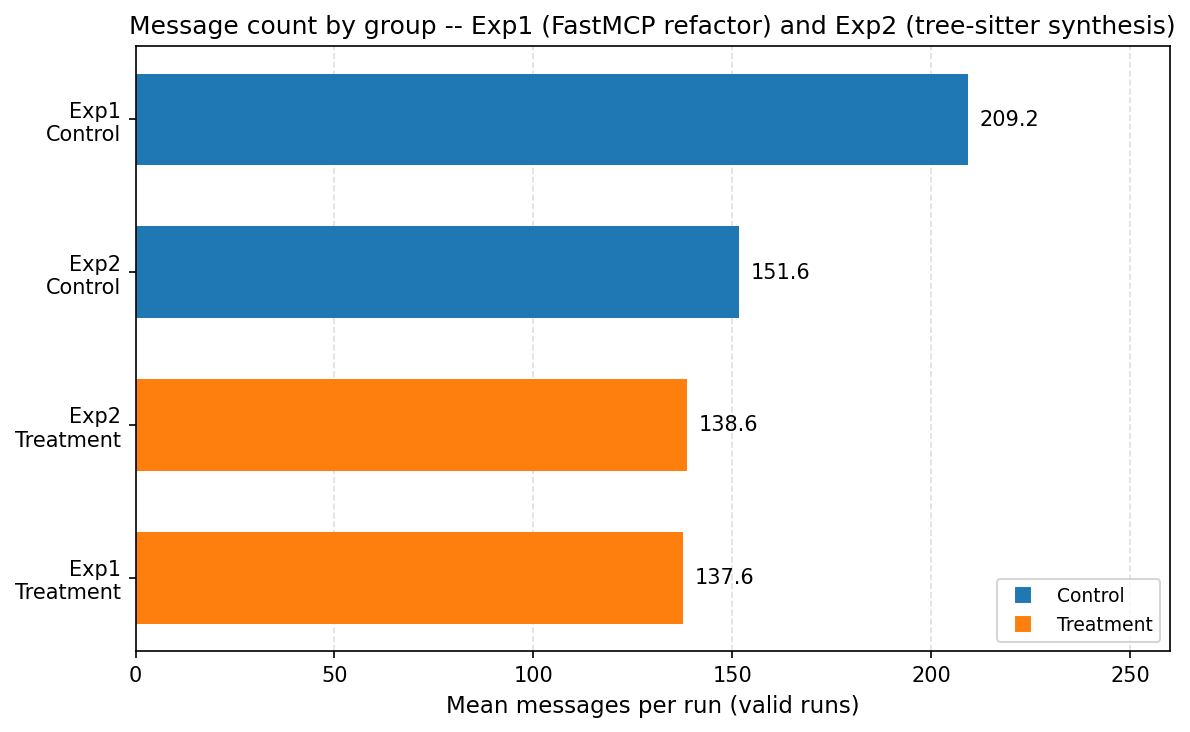
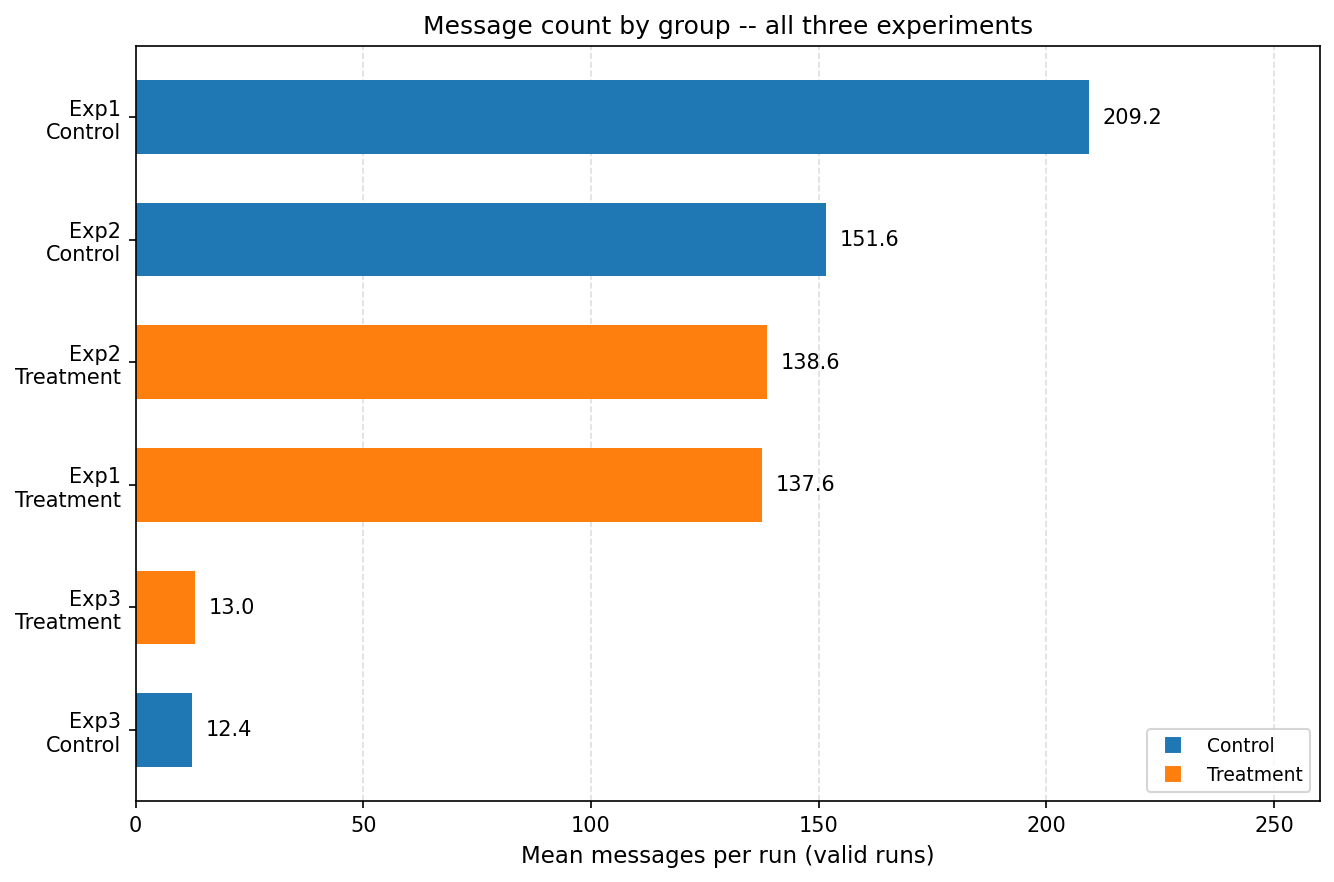
docs(figures): add Exp3 data to all three figures (#53)
- fig1: grouped bar chart with log scale; Exp3 control 41,570 / treatment 50,418 tokens
- fig2: two-panel layout; Exp3 panel with excluded criteria (C1/C5/C6) in grey
- fig3: Exp3 message bars added (control 12.4, treatment 13.0)
- README: update all three figure captions

diff --git a/figures/fig2-criterion-pass-rates.py b/figures/fig2-criterion-pass-rates.py
@@ -3,38 +3,68 @@ matplotlib.use('Agg')
 import matplotlib.pyplot as plt
 from matplotlib.lines import Line2D
 
-# Data
-criteria = ["C1", "C2", "C3", "C4", "C5", "C6"]
-rates = [1.0, 1.0, 1.0, 1.0, 0.67, 1.0]
-colors = ["#2ca02c", "#2ca02c", "#2ca02c", "#2ca02c", "#d62728", "#2ca02c"]
+# Exp1 data
+criteria_exp1 = ["C1", "C2", "C3", "C4", "C5", "C6"]
+rates_exp1 = [1.0, 1.0, 1.0, 1.0, 0.67, 1.0]
+colors_exp1 = ["#2ca02c", "#2ca02c", "#2ca02c", "#2ca02c", "#d62728", "#2ca02c"]
 
-fig, ax = plt.subplots(figsize=(8, 5))
+# Exp2 data -- complete ceiling, all 7 criteria at 100%
+criteria_exp2 = ["C1", "C2", "C3", "C4", "C5", "C6", "C7"]
+rates_exp2 = [1.0, 1.0, 1.0, 1.0, 1.0, 1.0, 1.0]
+colors_exp2 = ["#2ca02c"] * 7
 
-bars = ax.bar(range(6), rates, color=colors, width=0.6, zorder=3)
+# Exp3 data
+criteria_exp3 = ["C1\u2020", "C2", "C3", "C4", "C5\u2020", "C6\u2020", "C7"]
+rates_exp3 = [0.0, 0.10, 0.80, 0.30, 0.0, 0.0, 1.0]
+colors_exp3 = ["#aaaaaa", "#ff7f0e", "#2ca02c", "#ff7f0e", "#aaaaaa", "#aaaaaa", "#2ca02c"]
 
-# Axis labels and title
-ax.set_ylabel('Pass rate', fontsize=11)
-ax.set_title('Criterion pass rates -- FastMCP refactor (n=9 valid runs)', fontsize=12)
-ax.set_ylim(0, 1.15)
-ax.yaxis.grid(True, linestyle='--', alpha=0.4, zorder=0)
-ax.set_axisbelow(True)
-# X ticks
-ax.set_xticks(range(6))
-ax.set_xticklabels(criteria, fontsize=11)
+fig, (ax1, ax2, ax3) = plt.subplots(3, 1, figsize=(10, 13))
 
-# Value labels on bars
-for i, bar in enumerate(bars):
-    r = rates[i]
-    ax.text(bar.get_x() + bar.get_width() / 2, bar.get_height() + 0.02,
-            f"{r:.0%}", ha='center', va='bottom', fontsize=10, fontweight='bold')
+# Panel 1: Exp1
+bars1 = ax1.bar(range(6), rates_exp1, color=colors_exp1, width=0.6, zorder=3)
+ax1.set_ylabel('Pass rate', fontsize=11)
+ax1.set_title('Exp1: FastMCP refactor (n=9 valid runs)', fontsize=11)
+ax1.set_ylim(0, 1.15)
+ax1.yaxis.grid(True, linestyle='--', alpha=0.4, zorder=0)
+ax1.set_axisbelow(True)
+ax1.set_xticks(range(6))
+ax1.set_xticklabels(criteria_exp1, fontsize=10)
+for i, bar in enumerate(bars1):
+    r = rates_exp1[i]
+    ax1.text(bar.get_x() + bar.get_width() / 2, r + 0.02,
+             f"{r:.0%}", ha='center', va='bottom', fontsize=10, fontweight='bold')
 
-# Legend
-legend_elements = [
-    Line2D([0], [0], marker='s', color='w', markerfacecolor='#2ca02c', markersize=9, label='Pass (100%)'),
-    Line2D([0], [0], marker='s', color='w', markerfacecolor='#d62728', markersize=9, label='Partial')
-]
-ax.legend(handles=legend_elements, loc='upper right', fontsize=9)
+# Panel 2: Exp2
+bars2 = ax2.bar(range(7), rates_exp2, color=colors_exp2, width=0.6, zorder=3)
+ax2.set_ylabel('Pass rate', fontsize=11)
+ax2.set_title('Exp2: Tree-sitter AST scanner (n=10) -- complete ceiling', fontsize=11)
+ax2.set_ylim(0, 1.15)
+ax2.yaxis.grid(True, linestyle='--', alpha=0.4, zorder=0)
+ax2.set_axisbelow(True)
+ax2.set_xticks(range(7))
+ax2.set_xticklabels(criteria_exp2, fontsize=10)
+for i, bar in enumerate(bars2):
+    r = rates_exp2[i]
+    ax2.text(bar.get_x() + bar.get_width() / 2, r + 0.02,
+             f"{r:.0%}", ha='center', va='bottom', fontsize=10, fontweight='bold')
 
-plt.tight_layout()
+# Panel 3: Exp3
+bars3 = ax3.bar(range(7), rates_exp3, color=colors_exp3, width=0.6, zorder=3)
+ax3.set_ylabel('Pass rate', fontsize=11)
+ax3.set_title('Exp3: Kotlin grammar synthesis (n=10)', fontsize=11)
+ax3.set_ylim(0, 1.15)
+ax3.yaxis.grid(True, linestyle='--', alpha=0.4, zorder=0)
+ax3.set_axisbelow(True)
+ax3.set_xticks(range(7))
+ax3.set_xticklabels(criteria_exp3, fontsize=10)
+for i, bar in enumerate(bars3):
+    r = rates_exp3[i]
+    ax3.text(bar.get_x() + bar.get_width() / 2, r + 0.02,
+             f"{r:.0%}", ha='center', va='bottom', fontsize=10, fontweight='bold')
+ax3.text(0.01, -0.12, '\u2020 Structurally excluded (rubric-runner misalignment; 0/10 both groups)',
+         transform=ax3.transAxes, fontsize=9, style='italic')
+
+fig.suptitle('Criterion pass rates by experiment', fontsize=13, fontweight='bold')
+plt.tight_layout(rect=[0, 0, 1, 0.97])
 plt.savefig('figures/fig2-criterion-pass-rates.png', dpi=150, bbox_inches='tight')
 print('Saved figures/fig2-criterion-pass-rates.png')

diff --git a/figures/fig1-token-distribution.py b/figures/fig1-token-distribution.py
@@ -2,34 +2,49 @@ import matplotlib
 matplotlib.use('Agg')
 import matplotlib.pyplot as plt
 from matplotlib.lines import Line2D
+import numpy as np
 
-# Data
-labels = ["Exp1\nControl", "Exp1\nTreatment", "Exp2\nControl", "Exp2\nTreatment"]
-values = [1068182, 732257, 740362, 737331]
-colors = ["#1f77b4", "#ff7f0e", "#1f77b4", "#ff7f0e"]
+# Data: Exp1, Exp2, Exp3 (paper.tex Table 3)
+exp_labels = ["Exp1\nFastMCP", "Exp2\nTree-sitter", "Exp3\nKotlin"]
+control_values = [1032363, 703993, 41570]
+treatment_values = [716275, 755029, 50418]
 
-fig, ax = plt.subplots(figsize=(9, 5))
+fig, ax = plt.subplots(figsize=(10, 5))
 
-bars = ax.bar(range(4), values, color=colors, width=0.6)
+x = np.arange(len(exp_labels))
+bar_width = 0.35
+offset = 0.2
 
-# Y-axis label and title
-ax.set_ylabel("Mean total tokens (valid runs)", fontsize=11)
-ax.set_title("Token usage by group -- Exp1 (FastMCP refactor) and Exp2 (tree-sitter synthesis)", fontsize=12)
-# Y limits and grid
-ax.set_ylim(0, 1.3e6)
-ax.yaxis.grid(True, linestyle="--", alpha=0.4, zorder=0)
+bars_control = ax.bar(x - offset, control_values, bar_width, label='Control', color='#1f77b4', zorder=3)
+bars_treatment = ax.bar(x + offset, treatment_values, bar_width, label='Treatment', color='#ff7f0e', zorder=3)
+
+ax.set_ylabel('Mean total tokens (valid runs)', fontsize=11)
+ax.set_title('Token usage by group -- all three experiments', fontsize=12)
+ax.set_ylim(0, 1.25e6)
+ax.yaxis.grid(True, linestyle='--', alpha=0.4, zorder=0)
 ax.set_axisbelow(True)
-# X ticks
-ax.set_xticks(range(4))
-ax.set_xticklabels(labels, fontsize=10)
 
-# Value labels on bars
-for i, bar in enumerate(bars):
-    v = values[i]
-    ax.text(bar.get_x() + bar.get_width() / 2, bar.get_height() + 20000,
-            f"{v/1e6:.2f}M", ha="center", va="bottom", fontsize=10, fontweight="bold")
+ax.set_xticks(x)
+ax.set_xticklabels(exp_labels, fontsize=10)
 
-# Legend using Line2D squares
+def format_value(v):
+    if v >= 1e6:
+        return f"{v/1e6:.2f}M"
+    elif v >= 1e3:
+        return f"{v/1e3:.0f}K"
+    else:
+        return f"{v:.0f}"
+
+for bar in bars_control:
+    height = bar.get_height()
+    ax.text(bar.get_x() + bar.get_width() / 2, height + 18000,
+            format_value(height), ha='center', va='bottom', fontsize=9, fontweight='bold')
+
+for bar in bars_treatment:
+    height = bar.get_height()
+    ax.text(bar.get_x() + bar.get_width() / 2, height + 18000,
+            format_value(height), ha='center', va='bottom', fontsize=9, fontweight='bold')
+
 legend_elements = [
     Line2D([0], [0], marker='s', color='w', markerfacecolor='#1f77b4', markersize=9, label='Control'),
     Line2D([0], [0], marker='s', color='w', markerfacecolor='#ff7f0e', markersize=9, label='Treatment')

diff --git a/figures/fig3-message-counts.py b/figures/fig3-message-counts.py
@@ -3,24 +3,24 @@ matplotlib.use('Agg')
 import matplotlib.pyplot as plt
 from matplotlib.lines import Line2D
 
-# Sorted data
-labels_sorted = ["Exp1\nTreatment", "Exp2\nTreatment", "Exp2\nControl", "Exp1\nControl"]
-values_sorted = [137.6, 138.6, 151.6, 209.25]
-colors_sorted = ["#ff7f0e", "#ff7f0e", "#1f77b4", "#1f77b4"]
+# Sorted data (ascending by value)
+labels_sorted = ["Exp3\nControl", "Exp3\nTreatment", "Exp1\nTreatment", "Exp2\nTreatment", "Exp2\nControl", "Exp1\nControl"]
+values_sorted = [12.4, 13.0, 137.6, 138.6, 151.6, 209.25]
+colors_sorted = ["#1f77b4", "#ff7f0e", "#ff7f0e", "#ff7f0e", "#1f77b4", "#1f77b4"]
 
-fig, ax = plt.subplots(figsize=(8, 5))
+fig, ax = plt.subplots(figsize=(9, 6))
 
-bars = ax.barh(range(4), values_sorted, color=colors_sorted, height=0.6)
+bars = ax.barh(range(6), values_sorted, color=colors_sorted, height=0.6)
 
 # Axis labels and title
 ax.set_xlabel('Mean messages per run (valid runs)', fontsize=11)
-ax.set_title('Message count by group -- Exp1 (FastMCP refactor) and Exp2 (tree-sitter synthesis)', fontsize=12)
+ax.set_title('Message count by group -- all three experiments', fontsize=12)
 ax.set_xlim(0, 260)
 ax.xaxis.grid(True, linestyle='--', alpha=0.4, zorder=0)
 ax.set_axisbelow(True)
 
 # Y ticks
-ax.set_yticks(range(4))
+ax.set_yticks(range(6))
 ax.set_yticklabels(labels_sorted, fontsize=10)
 
 # Value labels

diff --git a/README.md b/README.md
@@ -77,11 +77,11 @@ C5-C7 in Experiment 2 require reading and synthesizing actual source code. They 
 
 ![Mean token usage by group and experiment](figures/fig1-token-distribution.png)
 
-*Figure 1: Mean total tokens per group. Valid runs only (Exp1 control-1 drift failure excluded). Dashed lines mark each experiment's control baseline.*
+*Figure 1: Mean total tokens per group. Valid runs only (Exp1 control-1 drift failure excluded). All three experiments shown; Exp3 values (~41-50K) are ~20x smaller than Exp1/2, reflecting the shorter Kotlin task.*
 
-![Criterion pass rates for Exp1](figures/fig2-criterion-pass-rates.png)
+![Criterion pass rates by experiment](figures/fig2-criterion-pass-rates.png)
 
-*Figure 2: Criterion pass rates -- Exp1: FastMCP refactor (n=9 valid runs). C5 is the only discriminating criterion. Exp2 (n=10): all 7 criteria at 100% (ceiling effect, not shown). Exp3 criterion pass rates appear in the text table below.*
+*Figure 2: Criterion pass rates across all three experiments (vertical panels). Top: Exp1 FastMCP refactor (n=9). Middle: Exp2 tree-sitter AST scanner (n=10), complete ceiling. Bottom: Exp3 Kotlin grammar synthesis (n=10); grey bars (C1, C5, C6) are structurally excluded criteria (rubric-runner misalignment).*
 
 | Experiment | Group | n (valid) | Pass rate (overall) | Tokens (mean) | Messages (mean) |
 |------------|-------|-----------|---------------------|---------------|-----------------|
@@ -215,7 +215,7 @@ Treatment agents used 30.6% fewer tokens in Experiment 1, but 7.2% more in Exper
 
 ![Message counts by group and experiment](figures/fig3-message-counts.png)
 
-*Figure 3: Mean messages per group. Treatment agents used fewer turns in both experiments (Exp1 and Exp2 only; Exp3 not shown); the effect is stronger in Exp1 (-34%) than Exp2 (-9%). Exp1 control-1 drift failure excluded from summary statistics.*
+*Figure 3: Mean messages per group. All three experiments shown. Exp3 agents used far fewer messages (~12-13) than Exp1/2 (~138-209), reflecting the shorter Kotlin task. Exp1 control-1 drift failure excluded.*
 
 | Slice | N (control v treatment) | Total token diff |
 |---|---|---|